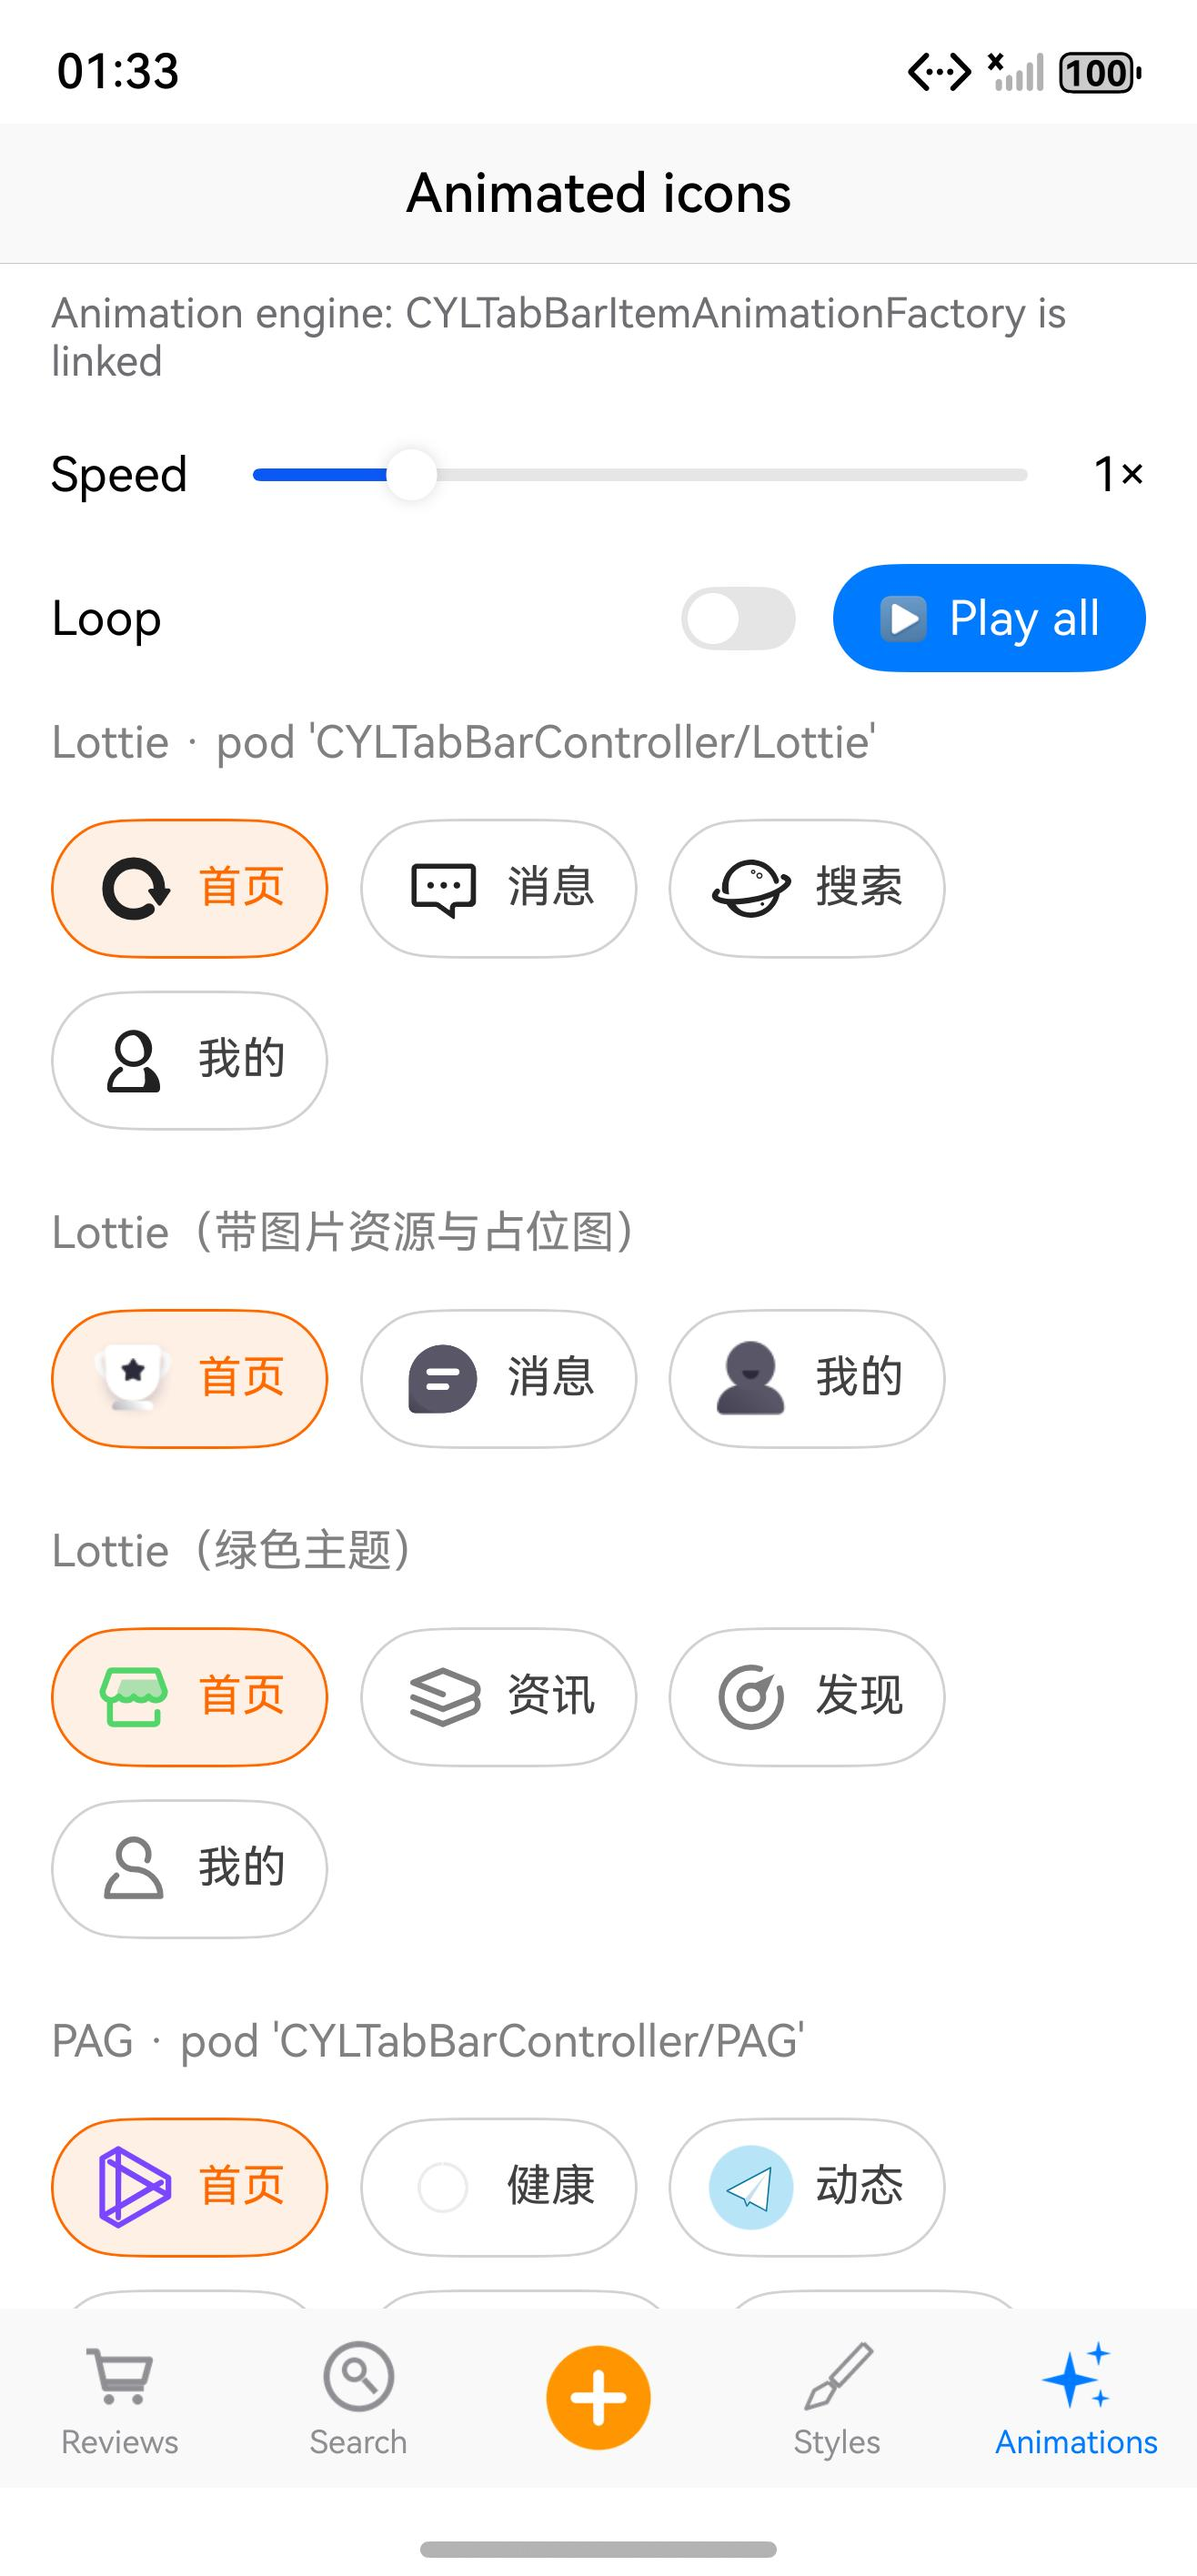
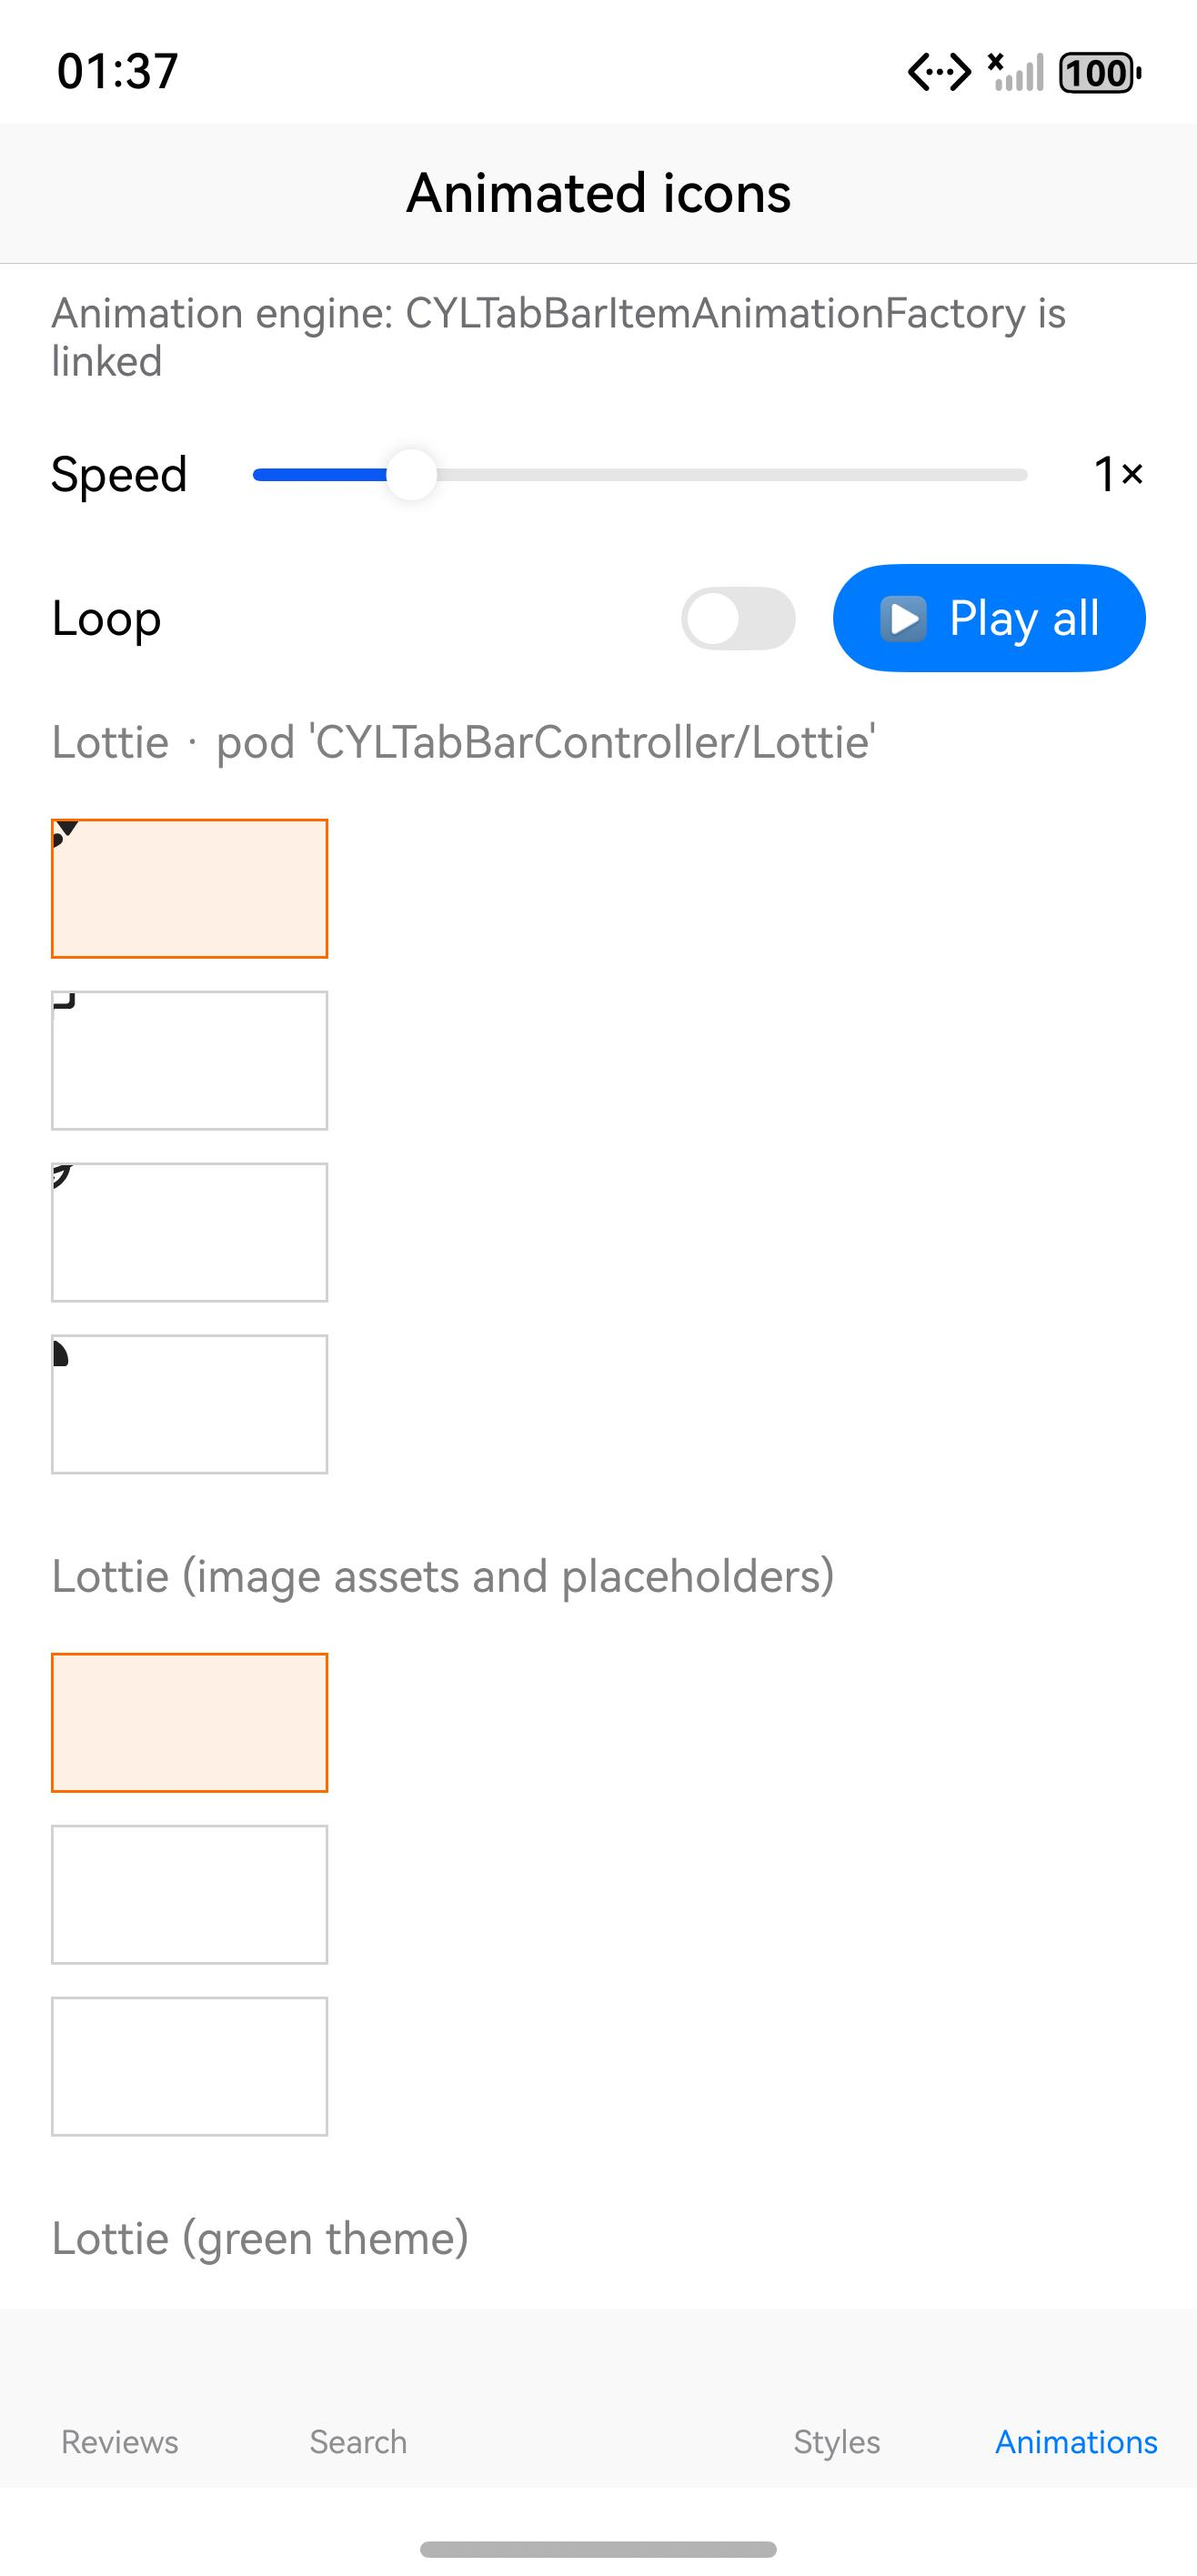
docs(harmony): 📝 retest 9db8a0f: E4 passes
Section titles are English. Records the Chinese tag titles in English
(E5) and the animation screen needing more than 8 s before a shot (E6).

By @ChenYilong <luohanchenyilong@163.com>

Claude-Session: https://claude.ai/code/session_017y7XP1mQbtZ3qSM2mvdshG

diff --git a/docs/harmony-screenshot-issues.md b/docs/harmony-screenshot-issues.md
@@ -204,7 +204,9 @@ was not run here.
 | E1 | `screenshots.sh animations` / `en-animations` / `dark-animations` open the first tab (宝贝详情), not the animations tab; the shot is taken before the tab icons and review tags load (`assets/harmonyos-verify-sheet-8.jpeg`, `-24`) | TODO need 模拟器截图验证: fixed: a launch route that is a root tab (动效, 样式, the two scenarios) selects that tab instead of pushing it (`pages/Index.ets` `open`; a relaunch goes through AppStorage `cylLaunchScreen`) |
 | E2 | `dark-root`: launched with `cylColorMode dark`, the product page and tab bar stay light; only the status bar is dark (`assets/harmonyos-verify-sheet-24.jpeg`) | TODO: open, not fixed: the example's screens use fixed light colors in every color mode (S2); only the animation page follows dark mode (Z3, Z4, Z6). Dark mode for the root, product page and tab bar is a separate task |
 | E3 | `screenshots.sh root`: the first shot after install shows the launcher, the app had not appeared yet (`assets/harmonyos-verify-sheet-0.jpeg`) | TODO need 模拟器截图验证: fixed: `screenshots.sh` waits, up to 10 s more, until the app's window is listed by WindowManagerService before each shot |
-| E4 | English animation screen: the section titles "Lottie（带图片资源与占位图）", "Lottie（绿色主题）" stay Chinese (`assets/harmonyos-verify-a2f8561.jpeg`, en-animations) | TODO need 模拟器截图验证: fixed: the screen's section titles also go through the example's strings, where both have English and zh-Hant |
+| E4 | English animation screen: the section titles "Lottie（带图片资源与占位图）", "Lottie（绿色主题）" stay Chinese (`assets/harmonyos-verify-a2f8561.jpeg`, en-animations) | DONE (emulator, `2baf415`, `assets/harmonyos-verify-e4.jpeg`) |
+| E5 | English animation screen: the tag titles stay Chinese (首页, 消息, 我的, 资讯, 发现, 健康, 动态), `assets/harmonyos-verify-e4.jpeg` | TODO |
+| E6 | `screenshots.sh` `WAIT=8` is too short for the animation screen: at 8 s the tags are empty boxes with no titles; at 20 s they are drawn (`assets/harmonyos-en-animations.jpeg` vs `assets/harmonyos-verify-e4.jpeg`) | TODO |
 
 Not checked in this run (other apps): R1–R3 (React Native), F1–F3 (Flutter), T1–T12, D1–D4, N1–N4, X2 (CYLTabBarController's HarmonyOS example).
 
